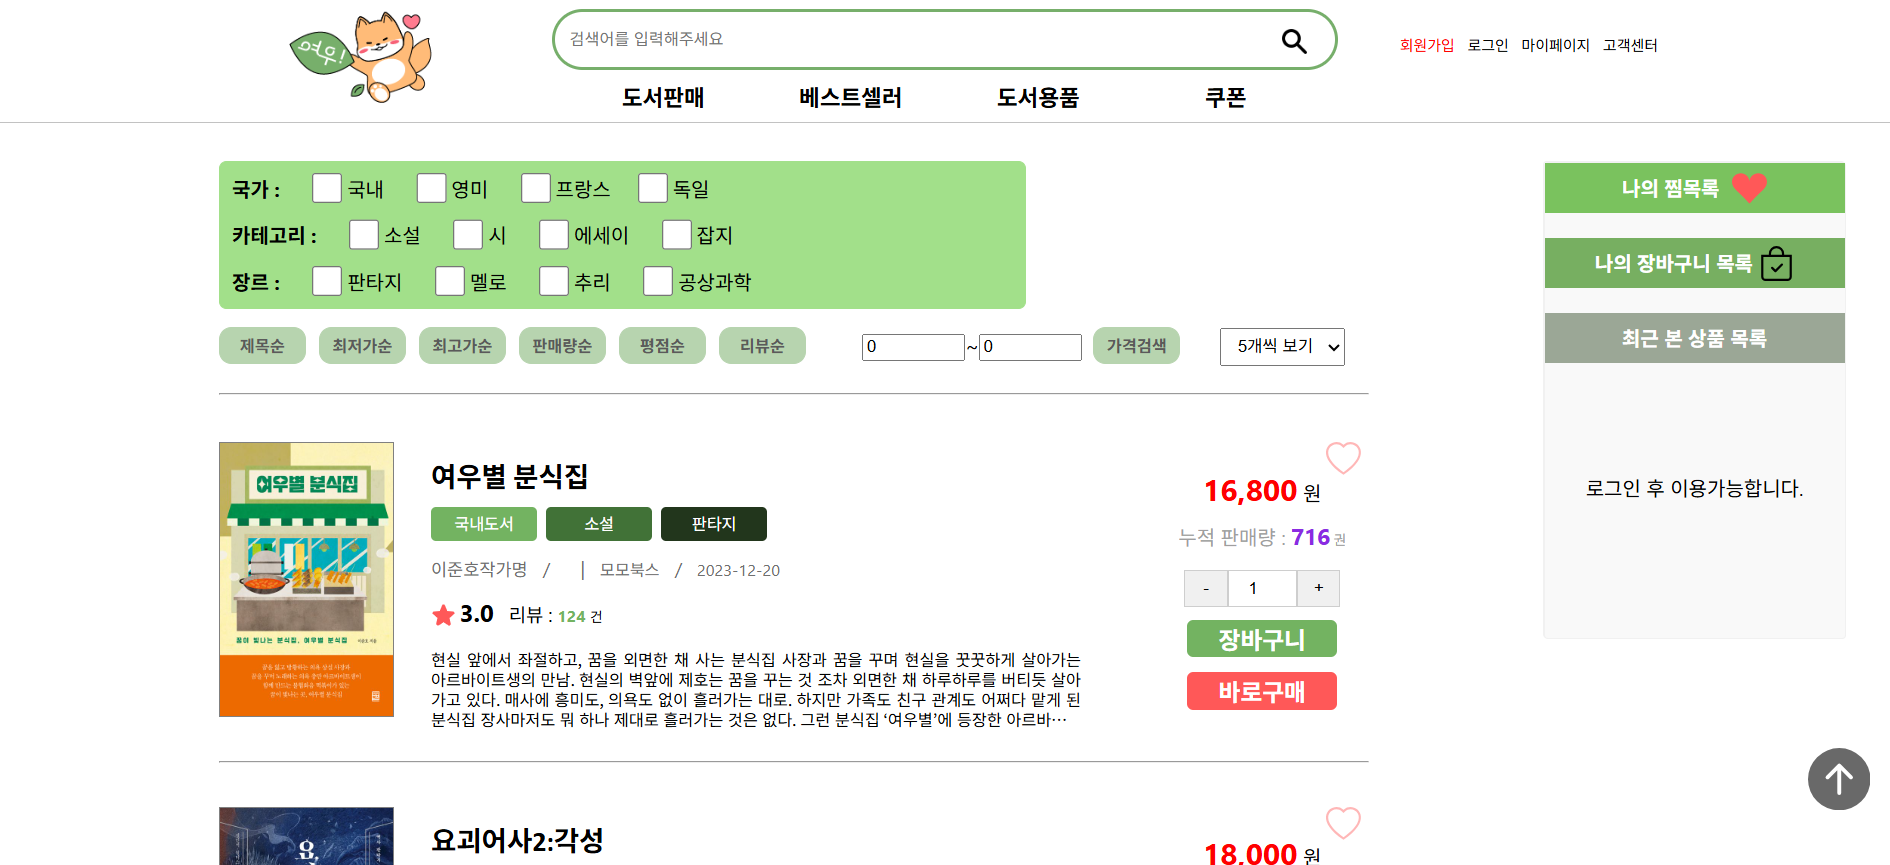
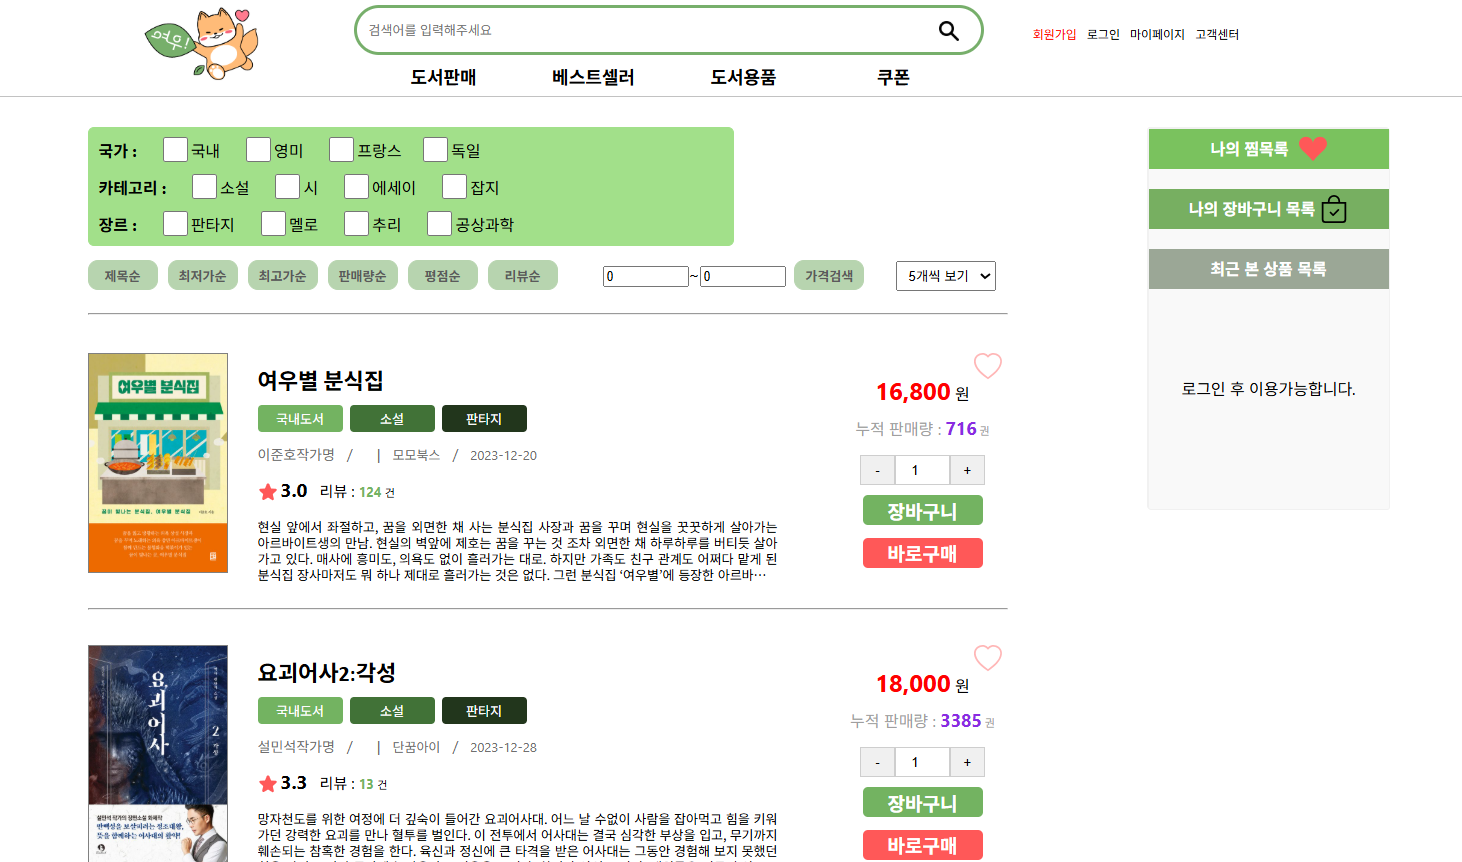
카드 내용 상단 정렬, 스크린샷 확대, 스샷 교체
- 2~6번은 .side-project-card > div 가 align-self: center 라 내용이
  카드 세로 가운데에 놓여 라벨 위가 비고 번호와 높이가 어긋났다.
  start 로 바꿔 1번과 같이 3px 오차로 맞췄다.
- 스크린샷 폭 120px → 200px.
- RESPLA·여우책방 스크린샷을 새 캡처로 교체.
- HPDFS 다운로드 문구를 '.bat 파일 다운로드' 로. 받는 건 실제로
  START_AGENT.bat 로 실행하는 파이썬 에이전트다. 가스만 .exe 다.

diff --git a/index.html b/index.html
@@ -168,7 +168,7 @@
                             <p class="hero-description">SMART 기반 저장장치 고장 예측 및 모니터링 시스템.<br>FastAPI API 설계 · PostgreSQL
                                 DB 설계</p>
                             <div class="hero-actions">
-                                <a class="button" href="./downloads/hpdfs-agent.zip" download>.exe 파일 다운로드</a>
+                                <a class="button" href="./downloads/hpdfs-agent.zip" download>.bat 파일 다운로드</a>
                                 <button class="button button-icon" type="button" id="hpdfsCopyLinkButton" aria-label="링크 복사" data-tip="링크 복사"><svg class="icon-copy" viewBox="0 0 16 16" width="16" height="16" fill="currentColor" aria-hidden="true"><path d="M0 6.75C0 5.784.784 5 1.75 5h1.5a.75.75 0 0 1 0 1.5h-1.5a.25.25 0 0 0-.25.25v7.5c0 .138.112.25.25.25h7.5a.25.25 0 0 0 .25-.25v-1.5a.75.75 0 0 1 1.5 0v1.5A1.75 1.75 0 0 1 9.25 16h-7.5A1.75 1.75 0 0 1 0 14.25Z"></path><path d="M5 1.75C5 .784 5.784 0 6.75 0h7.5C15.216 0 16 .784 16 1.75v7.5A1.75 1.75 0 0 1 14.25 11h-7.5A1.75 1.75 0 0 1 5 9.25Zm1.75-.25a.25.25 0 0 0-.25.25v7.5c0 .138.112.25.25.25h7.5a.25.25 0 0 0 .25-.25v-7.5a.25.25 0 0 0-.25-.25Z"></path></svg><svg class="icon-check" viewBox="0 0 16 16" width="16" height="16" fill="currentColor" aria-hidden="true"><path d="M13.78 4.22a.75.75 0 0 1 0 1.06l-7.25 7.25a.75.75 0 0 1-1.06 0L2.22 9.28a.751.751 0 0 1 .018-1.042.751.751 0 0 1 1.042-.018L6 10.94l6.72-6.72a.75.75 0 0 1 1.06 0Z"></path></svg></button>
                                 <a class="button button-primary" href="http://43.202.208.133:8084" target="_blank"
                                     rel="noopener">웹 접속</a>

diff --git a/index.css b/index.css
@@ -3395,3 +3395,18 @@
                 padding: 2px 6px;
             }
         }
+
+        /* 내용이 카드 세로 가운데에 있어 라벨 위가 비고 번호와 높이가 어긋났다.
+           1페이지 CastleChat 처럼 위에 붙인다. */
+        .side-project-card > div {
+            align-self: start;
+        }
+
+        /* 스크린샷을 키운다. 오른쪽 칸을 고정 폭으로. */
+        .side-project-card {
+            grid-template-columns: 52px minmax(0, 1fr) auto;
+        }
+
+        .card-shot {
+            width: 200px;
+        }
